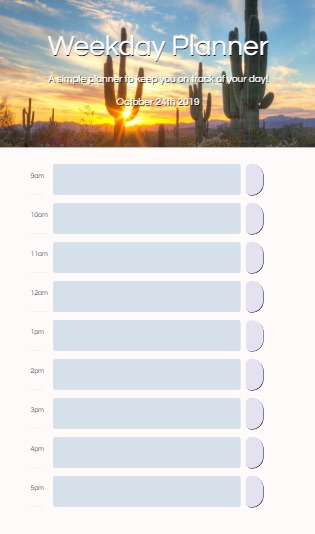
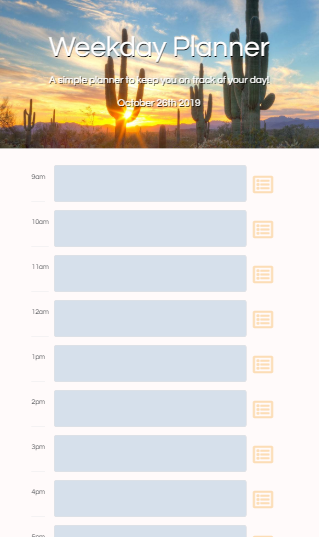
Updated buttons and took new screenshots to display

diff --git a/index.html b/index.html
@@ -9,6 +9,7 @@
 
     <link rel="stylesheet" href="https://stackpath.bootstrapcdn.com/bootstrap/4.3.1/css/bootstrap.min.css"
         integrity="sha384-ggOyR0iXCbMQv3Xipma34MD+dH/1fQ784/j6cY/iJTQUOhcWr7x9JvoRxT2MZw1T" crossorigin="anonymous">
+    <script src="https://kit.fontawesome.com/9b22d73af0.js" crossorigin="anonymous"></script>
 
     <link rel="stylesheet" href="assets/css/style.css">
 
@@ -47,8 +48,9 @@
                 <textarea id=text9AM class="form-control custom-control textborder" rows="2" style="resize:none"
                     name="9"></textarea>
 
-                <button class=" myBttn col-1 
-                btn "></button>
+                <button class="  col-1 
+                 btn  "> <span style="font-size: 2.5em; color: #fcddb6 "><i class="far fa-list-alt"></i>
+                    </span></button>
 
             </div>
         </div>
@@ -64,8 +66,9 @@
                 <textarea id=text10AM class="form-control custom-control textborder" rows="2" style="resize:none"
                     name="10"></textarea>
 
-                <button class=" myBttn col-1 
-                    btn "></button>
+                <button class="  col-1 
+                    btn  "> <span style="font-size: 2.5em; color: #fcddb6 "><i class="far fa-list-alt"></i>
+                    </span></button>
             </div>
         </div>
 
@@ -79,8 +82,9 @@
             <div class="input-group col-10 form-group">
                 <textarea id=text11AM class="form-control custom-control textborder" rows="2" style="resize:none"
                     name="11"></textarea>
-                <button class=" myBttn col-1 
-                    btn "></button>
+                <button class="  col-1 
+                    btn  "> <span style="font-size: 2.5em; color: #fcddb6 "><i class="far fa-list-alt"></i>
+                    </span></button>
             </div>
         </div>
 
@@ -94,8 +98,9 @@
             <div class="input-group col-10 form-group">
                 <textarea id=text12AM class="form-control custom-control textborder" rows="2" style="resize:none"
                     name="12"></textarea>
-                <button class=" myBttn col-1 
-                    btn "></button>
+                <button class="  col-1 
+                    btn  "> <span style="font-size: 2.5em; color: #fcddb6 "><i class="far fa-list-alt"></i>
+                    </span></button>
             </div>
         </div>
 
@@ -109,8 +114,9 @@
             <div class="input-group col-10 form-group">
                 <textarea id=text1PM class="form-control custom-control textborder" rows="2" style="resize:none"
                     name="13"></textarea>
-                <button class=" btn btn-light myBttn col-1 
-                    btn "></button>
+                <button class="  col-1 
+                    btn  "> <span style="font-size: 2.5em; color: #fcddb6 "><i class="far fa-list-alt"></i>
+                    </span></button>
             </div>
         </div>
 
@@ -124,8 +130,9 @@
             <div class="input-group col-10 form-group">
                 <textarea id=text2PM class="form-control custom-control textborder" rows="2" style="resize:none"
                     name="14"></textarea>
-                <button class=" btn myBttn col-1 
-                    btn "></button>
+                <button class="  col-1 
+                    btn  "> <span style="font-size: 2.5em; color: #fcddb6 "><i class="far fa-list-alt"></i>
+                    </span></button>
             </div>
         </div>
 
@@ -139,8 +146,9 @@
             <div class="input-group col-10 form-group">
                 <textarea id=text3PM class="form-control custom-control textborder" rows="2" style="resize:none"
                     name="15"></textarea>
-                <button class=" myBttn col-1 
-                    btn "></button>
+                <button class="  col-1 
+                    btn  "> <span style="font-size: 2.5em; color: #fcddb6 "><i class="far fa-list-alt"></i>
+                    </span></button>
             </div>
         </div>
 
@@ -154,8 +162,9 @@
             <div class="input-group col-10 form-group">
                 <textarea id=text4PM class="form-control custom-control textborder" rows="2" style="resize:none"
                     name="16"></textarea>
-                <button class=" btn myBttn col-1 
-                     "></button>
+                <button class="  col-1 
+                    btn  "> <span style="font-size: 2.5em; color: #fcddb6 "><i class="far fa-list-alt"></i>
+                    </span></button>
             </div>
         </div>
 
@@ -168,8 +177,9 @@
             <div class="input-group    col-10 form-group">
                 <textarea id=text5PM class="textborder form-control custom-control" rows="2" style="resize:none"
                     name="17"></textarea>
-                <button class=" btn myBttn col-1 
-                     "></button>
+                <button class="  col-1 
+                    btn  "> <span style="font-size: 2.5em; color: #fcddb6 "><i class="far fa-list-alt"></i>
+                    </span></button>
             </div>
         </div>
 
@@ -207,6 +217,7 @@
     <script src="https://code.jquery.com/jquery-3.3.1.slim.min.js"
         integrity="sha384-q8i/X+965DzO0rT7abK41JStQIAqVgRVzpbzo5smXKp4YfRvH+8abtTE1Pi6jizo"
         crossorigin="anonymous"></script>
+
     <script src="assets/js/script.js"></script>
 </body>
 

diff --git a/assets/css/style.css b/assets/css/style.css
@@ -36,15 +36,7 @@ p{
     box-shadow: 2px black;
 }
 
-.myBttn{
- 
-     background-color: rgba(218, 218, 238, 0.76) !important;
-    
-    margin-left: 10px; 
-    border-radius: 25px 50px 50px 25px ;
-    box-shadow: 1px 1px black;
-  
-}
+
 
 #text9AM {
 

diff --git a/assets/js/script.js b/assets/js/script.js
@@ -7,6 +7,7 @@ $(document).ready(function () {
     $(".todaysDate").append(today);
 
     var now = parseInt(moment().format('HH'));
+    console.log(now)
 
     var $text9AM = $("#text9AM");
     var $text10AM = $("#text10AM");
